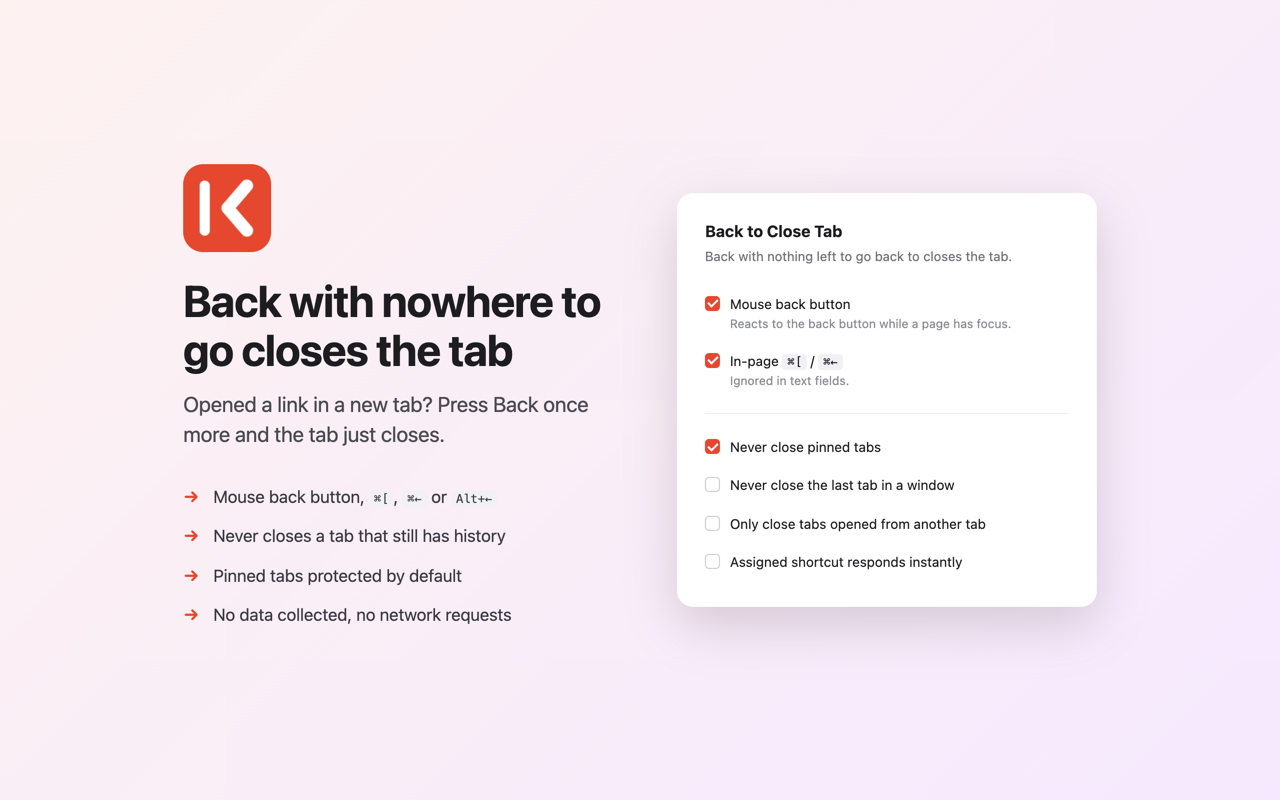
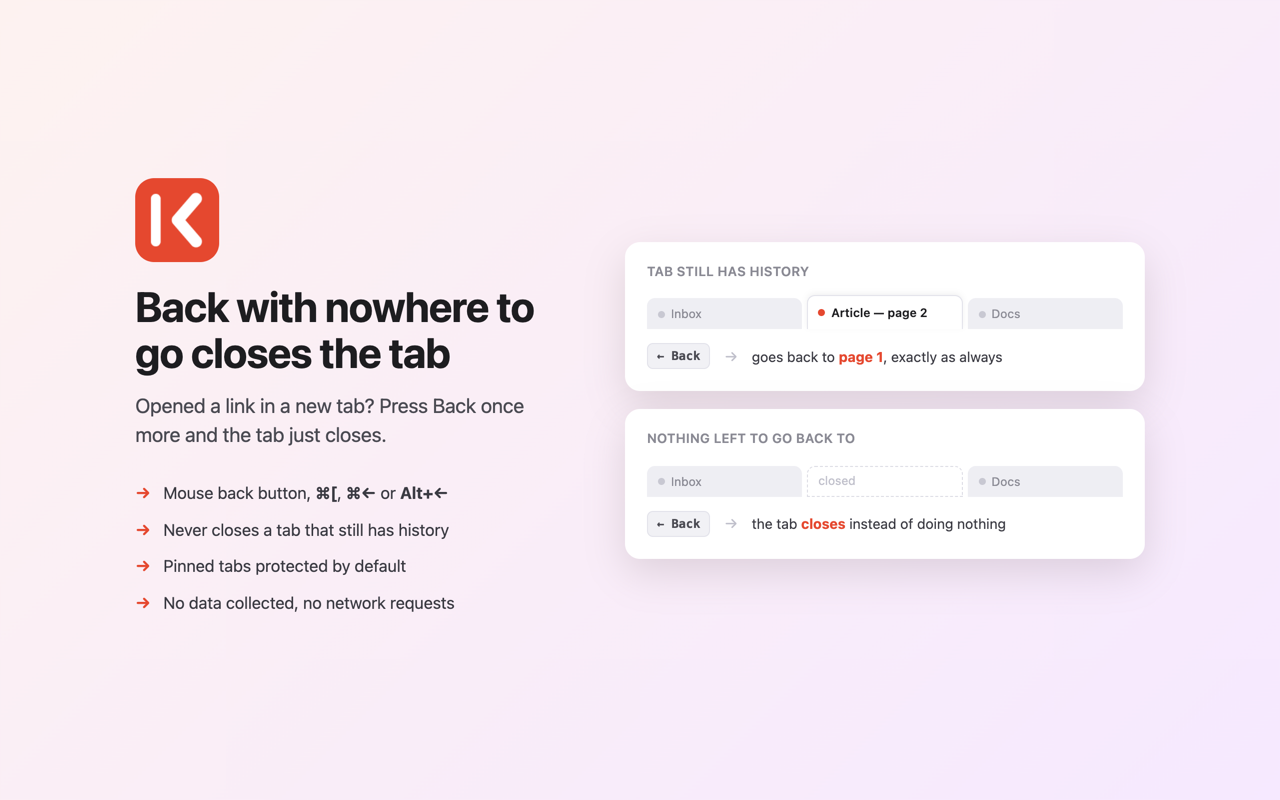
Show behaviour, not a settings form, in the store screenshot
The previous asset mocked the options panel, where three of six toggles
are off by default. In a promo image that reads as disabled features,
and ticking them would have misrepresented the defaults -- instantShortcut
in particular is meant to stay off unless the assigned key is not also a
browser shortcut.

The screenshot now contrasts the two cases directly: Back with history
navigates as always, Back with none left closes the tab.

diff --git a/store/screenshot.html b/store/screenshot.html
@@ -1,49 +1,73 @@
 <!doctype html><meta charset="utf-8">
 <style>
-  * { box-sizing: border-box; }
+  * { box-sizing:border-box; }
   body { margin:0; width:1280px; height:800px; display:flex; align-items:center; justify-content:center;
-         gap:64px; background:linear-gradient(135deg,#fdf2f0 0%,#f6e9ff 100%);
+         gap:70px; background:linear-gradient(135deg,#fdf2f0 0%,#f6e9ff 100%);
          font:16px/1.5 -apple-system,BlinkMacSystemFont,system-ui,sans-serif; color:#1d1d20; }
-  .pitch { max-width:430px; }
-  .icon { width:88px; height:88px; border-radius:20px; margin-bottom:24px; display:block; }
-  h1 { font-size:44px; line-height:1.1; margin:0 0 16px; letter-spacing:-.02em; }
-  p.sub { font-size:21px; line-height:1.45; margin:0 0 28px; color:#4a4a52; }
-  ul { margin:0; padding:0; list-style:none; font-size:17px; color:#3a3a42; }
-  li { padding:7px 0 7px 30px; position:relative; }
-  li:before { content:"→"; position:absolute; left:0; color:#e5482f; font-weight:700; }
-  .panel { width:420px; background:#fff; border-radius:16px; padding:26px 28px;
-           box-shadow:0 18px 50px rgba(30,10,10,.16); }
-  .panel h2 { font-size:16px; margin:0 0 4px; }
-  .panel .lede { margin:0 0 18px; color:#70707a; font-size:13px; }
-  label { display:flex; gap:10px; align-items:flex-start; padding:9px 0; font-size:13.5px; }
-  .box { width:15px; height:15px; border-radius:4px; flex:0 0 auto; margin-top:2px;
-         background:#e5482f; position:relative; }
-  .box.off { background:#fff; border:1.5px solid #c9c9d1; }
-  .box.on:after { content:""; position:absolute; left:4.5px; top:1.5px; width:4px; height:8px;
-                  border:solid #fff; border-width:0 2px 2px 0; transform:rotate(45deg); }
-  .hint { display:block; color:#8a8a94; font-size:12px; margin-top:1px; }
-  hr { border:0; border-top:1px solid #ececf1; margin:14px 0; }
-  code { background:#f1f1f5; padding:1px 5px; border-radius:4px; font-size:12px; }
+  .pitch { width:420px; }
+  .icon { width:84px; height:84px; border-radius:19px; margin-bottom:22px; display:block; }
+  h1 { font-size:42px; line-height:1.08; margin:0 0 16px; letter-spacing:-.02em; }
+  p.sub { font-size:20px; line-height:1.45; margin:0 0 26px; color:#4a4a52; }
+  ul { margin:0; padding:0; list-style:none; font-size:16.5px; color:#3a3a42; }
+  li { padding:6px 0 6px 28px; position:relative; }
+  li:before { content:"\2192"; position:absolute; left:0; color:#e5482f; font-weight:700; }
+  .demo { width:520px; }
+  .case { background:#fff; border-radius:15px; padding:20px 22px 22px;
+          box-shadow:0 14px 40px rgba(30,10,10,.13); margin-bottom:18px; }
+  .case:last-child { margin-bottom:0; }
+  .caption { font-size:13px; font-weight:600; letter-spacing:.02em; text-transform:uppercase;
+             color:#8a8a94; margin:0 0 14px; }
+  .bar { display:flex; gap:5px; align-items:flex-end; height:34px; }
+  .tab { height:31px; border-radius:8px 8px 0 0; background:#eeeef3; flex:1; display:flex;
+         align-items:center; padding:0 10px; gap:6px; font-size:12px; color:#8a8a94;
+         border:1px solid transparent; border-bottom:none; }
+  .tab.active { background:#fff; color:#1d1d20; height:34px; border-color:#e2e2ea;
+                box-shadow:0 -2px 6px rgba(0,0,0,.05); font-weight:600; }
+  .tab .dot { width:7px; height:7px; border-radius:50%; background:#c8c8d2; flex:0 0 auto; }
+  .tab.active .dot { background:#e5482f; }
+  .tab.ghost { background:transparent; border:1.5px dashed #dcdce4; color:#c0c0cb; }
+  .flow { display:flex; align-items:center; gap:14px; margin-top:14px; }
+  .flow .key { font:600 12px/1 ui-monospace,SFMono-Regular,Menlo,monospace; color:#4a4a52;
+               background:#f1f1f5; border:1px solid #e2e2ea; border-radius:6px; padding:6px 9px;
+               white-space:nowrap; }
+  .arrow { color:#c0c0cb; font-size:15px; }
+  .result { font-size:14px; color:#3a3a42; }
+  .result b { color:#e5482f; }
 </style>
 <div class="pitch">
[1 lines of base64/hex data omitted]
   <h1>Back with nowhere to go closes the tab</h1>
   <p class="sub">Opened a link in a new tab? Press Back once more and the tab just closes.</p>
   <ul>
-    <li>Mouse back button, <code>⌘[</code>, <code>⌘←</code> or <code>Alt+←</code></li>
+    <li>Mouse back button, <b>&#8984;[</b>, <b>&#8984;&#8592;</b> or <b>Alt+&#8592;</b></li>
     <li>Never closes a tab that still has history</li>
     <li>Pinned tabs protected by default</li>
     <li>No data collected, no network requests</li>
   </ul>
 </div>
-<div class="panel">
-  <h2>Back to Close Tab</h2>
-  <p class="lede">Back with nothing left to go back to closes the tab.</p>
-  <label><span class="box on"></span><span>Mouse back button<span class="hint">Reacts to the back button while a page has focus.</span></span></label>
-  <label><span class="box on"></span><span>In-page <code>⌘[</code> / <code>⌘←</code><span class="hint">Ignored in text fields.</span></span></label>
-  <hr>
-  <label><span class="box on"></span><span>Never close pinned tabs</span></label>
-  <label><span class="box off"></span><span>Never close the last tab in a window</span></label>
-  <label><span class="box off"></span><span>Only close tabs opened from another tab</span></label>
-  <label><span class="box off"></span><span>Assigned shortcut responds instantly</span></label>
+<div class="demo">
+  <div class="case">
+    <p class="caption">Tab still has history</p>
+    <div class="bar">
+      <div class="tab"><span class="dot"></span>Inbox</div>
+      <div class="tab active"><span class="dot"></span>Article &#8212; page 2</div>
+      <div class="tab"><span class="dot"></span>Docs</div>
+    </div>
+    <div class="flow">
+      <span class="key">&#8592; Back</span><span class="arrow">&#8594;</span>
+      <span class="result">goes back to <b>page 1</b>, exactly as always</span>
+    </div>
+  </div>
+  <div class="case">
+    <p class="caption">Nothing left to go back to</p>
+    <div class="bar">
+      <div class="tab"><span class="dot"></span>Inbox</div>
+      <div class="tab ghost">closed</div>
+      <div class="tab"><span class="dot"></span>Docs</div>
+    </div>
+    <div class="flow">
+      <span class="key">&#8592; Back</span><span class="arrow">&#8594;</span>
+      <span class="result">the tab <b>closes</b> instead of doing nothing</span>
+    </div>
+  </div>
 </div>
